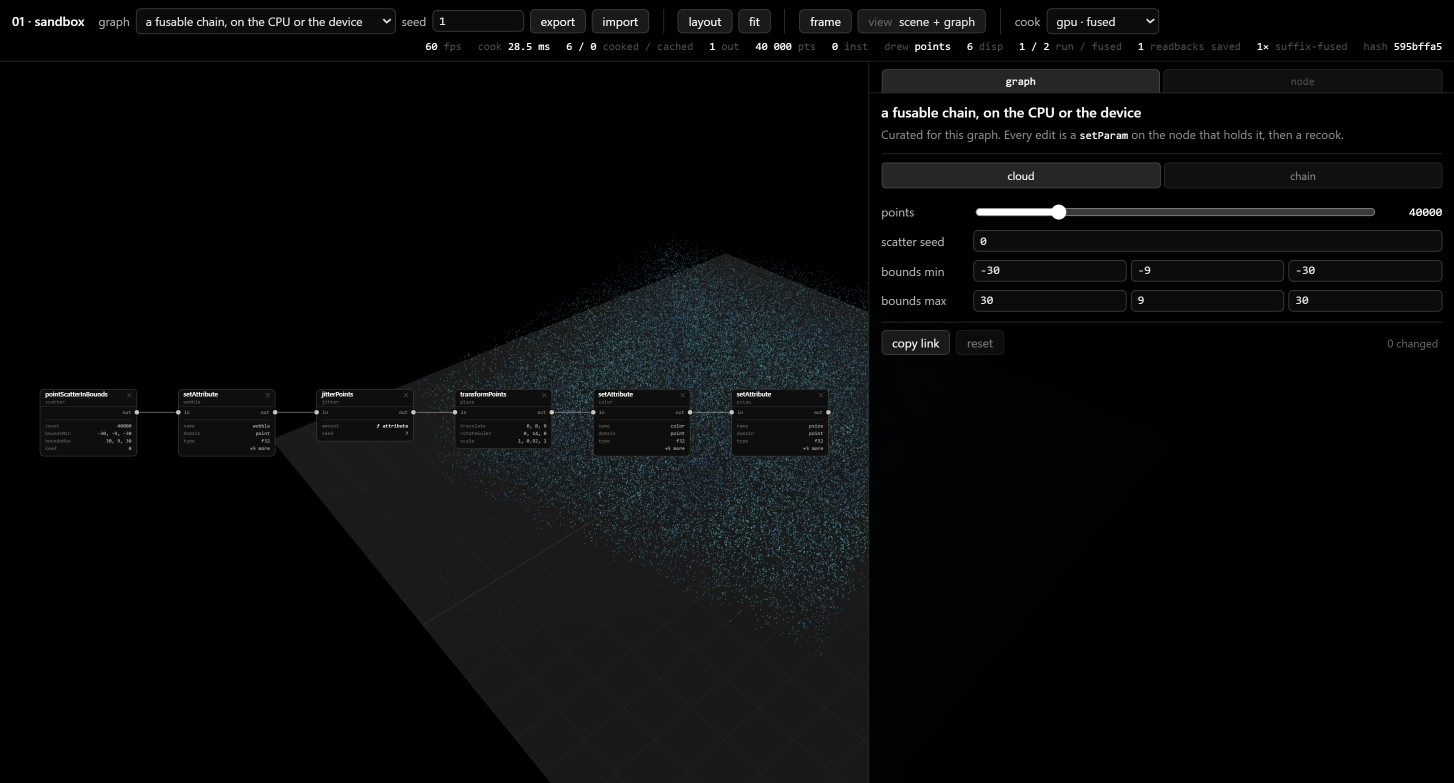
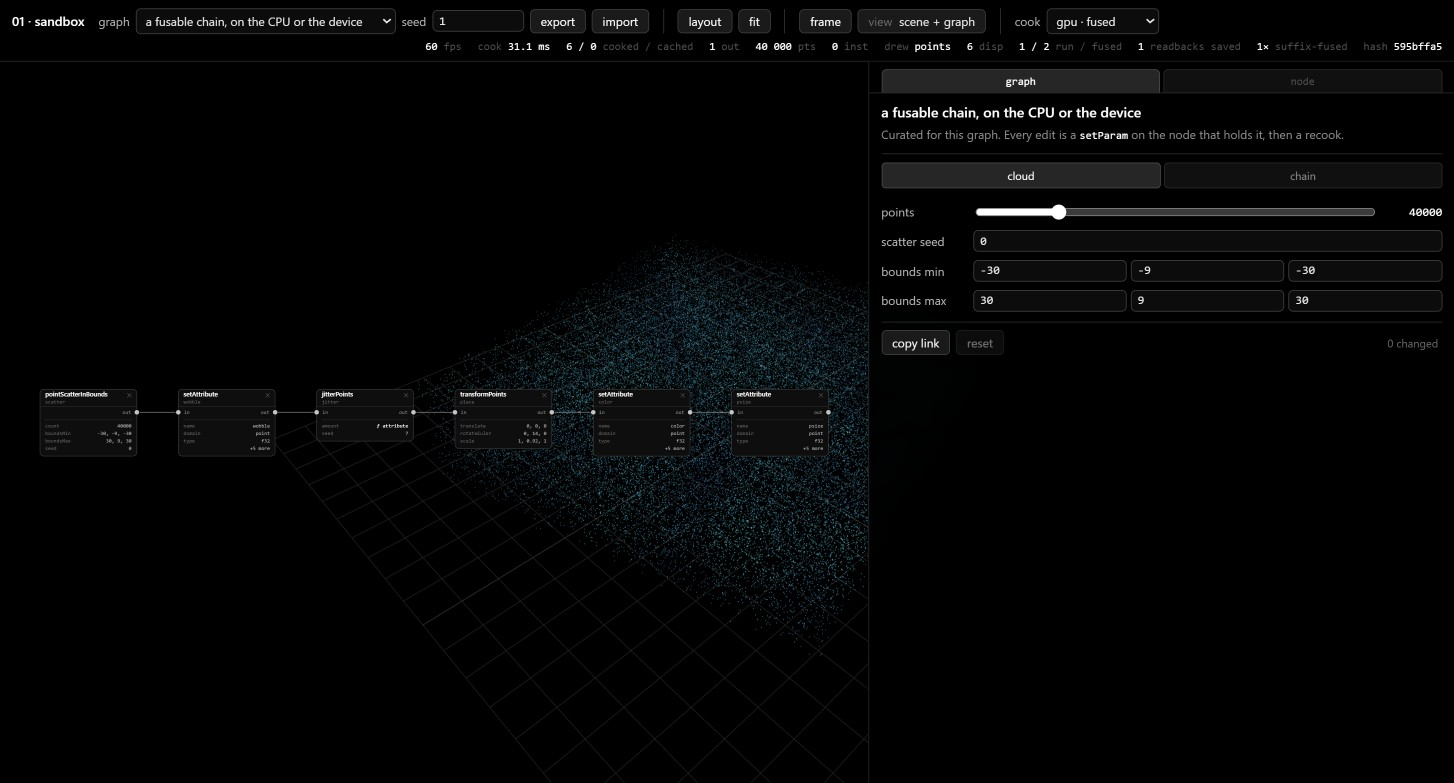
sandbox: the grid lines are the floor, and there is no slab under them
The ground plane was the one surface on a black page that still read as a
colour. A MeshStandardMaterial is not its hex — it is its hex times
whatever the lights do to it — so the darkest floor that still looked
deliberate rendered visibly lighter than the node boxes it sat behind,
and matching it by eye meant chasing a number through the lighting.

Deleted, not made transparent: an invisible mesh is still submitted,
still lit, and still one more thing to keep in sync with the ground plan.
The grid keeps everything it had — it is still rebuilt to the measured
content, still keyed so a knob that does not cross a snap boundary does
not rebuild a buffer. `groundKey` is `gridKey` now, since there is no
ground left for it to be about. Mesh and PlaneGeometry drop out of the
three import.

npm test: 117 files, 2932 passed. Figures regenerated.

Changed region(s): [[0.1857, 0.3372, 0.619, 1.0]]

diff --git a/examples/01-sandbox/main.ts b/examples/01-sandbox/main.ts
@@ -22,9 +22,7 @@ import {
   GridHelper,
   Group,
   LineBasicMaterial,
-  Mesh,
   MeshStandardMaterial,
-  PlaneGeometry,
   type Object3D,
 } from "three";
 import { createFpsMeter } from "../shared/fps.js";
@@ -59,39 +57,37 @@ const { scene, camera, controls, start } = createScene({
 });
 
 /**
- * The floor is rebuilt to fit whatever the graph made, so nothing here is
+ * THE LINES ARE THE FLOOR. There is no ground plane under them any more.
+ *
+ * There used to be a lit slab beneath the grid, and on a pure black page
+ * it was the one surface that read as a colour: a MeshStandardMaterial is
+ * not its hex, it is its hex times whatever the lights do to it, so the
+ * darkest floor that still looked deliberate was still visibly lighter
+ * than everything around it. Deleted rather than made transparent — an
+ * invisible mesh is still submitted, still lit, and still something to
+ * keep in sync with the plan.
+ *
+ * The grid is rebuilt to fit whatever the graph made, so nothing here is
  * a fixed size. What ships as the initial 30×30 is only what stands
  * before the first cook lands.
  */
-/**
- * Dark enough to sit against pure black without becoming a lit slab, but
- * not black itself — the floor has to be findable, or the content floats
- * in a void with nothing to say where the ground plane is.
- */
-const groundMaterial = new MeshStandardMaterial({ color: 0x141414, roughness: 1 });
-const ground = new Mesh(new PlaneGeometry(1, 1), groundMaterial);
-ground.rotation.x = -Math.PI / 2;
-scene.add(ground);
 let grid = new GridHelper(30, 30, 0x3a3a3a, 0x242424);
 scene.add(grid);
-let groundKey = "";
+let gridKey = "";
 
 /**
- * Resize the floor and grid to the measured content.
+ * Resize the grid to the measured content.
  *
- * The plane is a unit geometry under a scale so that following the
- * content costs a transform rather than an allocation, but a GridHelper
- * bakes its divisions into a buffer and has to be rebuilt. That is why
- * the plan is compared as a key first: a knob that nudges the extent
- * without crossing a snap boundary must not rebuild geometry on every
- * cook.
+ * A GridHelper bakes its divisions into a buffer and has to be rebuilt,
+ * which is why the plan is compared as a key first: a knob that nudges
+ * the extent without crossing a snap boundary must not rebuild geometry
+ * on every cook. Position is a transform either way, so it is set every
+ * time.
  */
 function applyGround(plan: GroundPlan): void {
-  ground.scale.set(plan.size, plan.size, 1);
-  ground.position.set(plan.x, plan.y, plan.z);
   const key = `${plan.size}/${plan.divisions}`;
-  if (key !== groundKey) {
-    groundKey = key;
+  if (key !== gridKey) {
+    gridKey = key;
     scene.remove(grid);
     grid.dispose();
     grid = new GridHelper(plan.size, plan.divisions, 0x3a3a3a, 0x242424);
